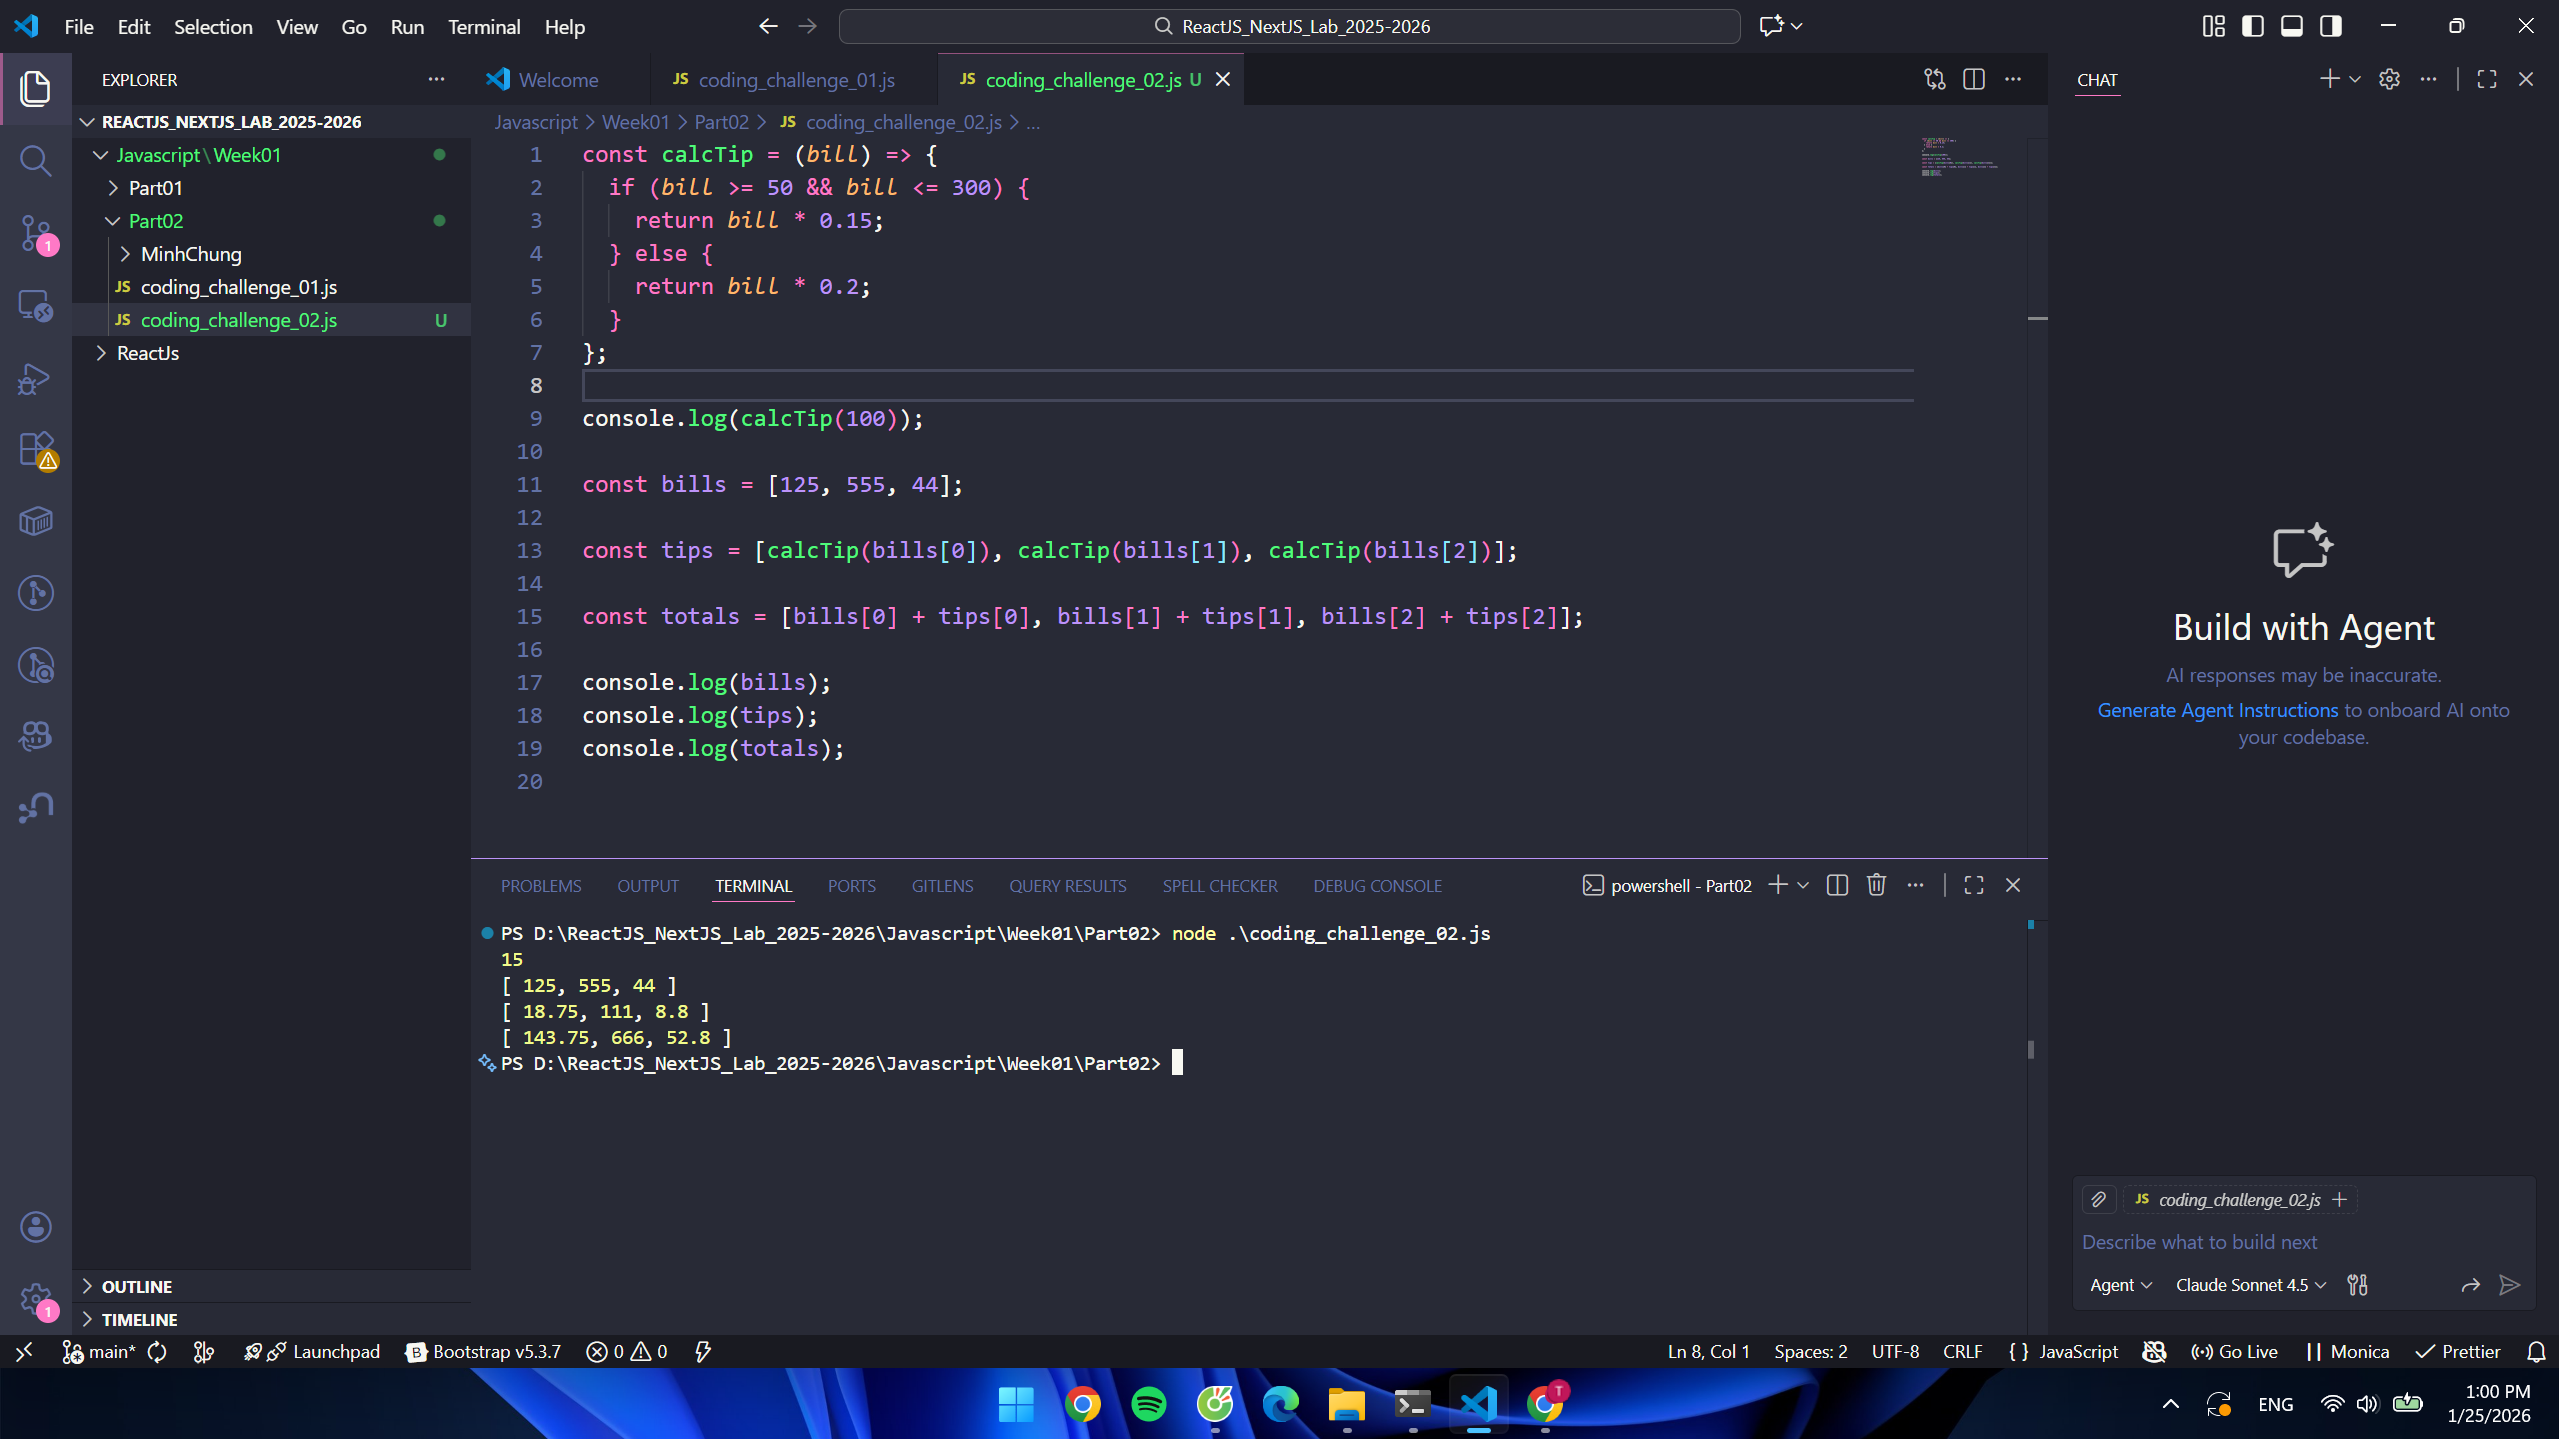
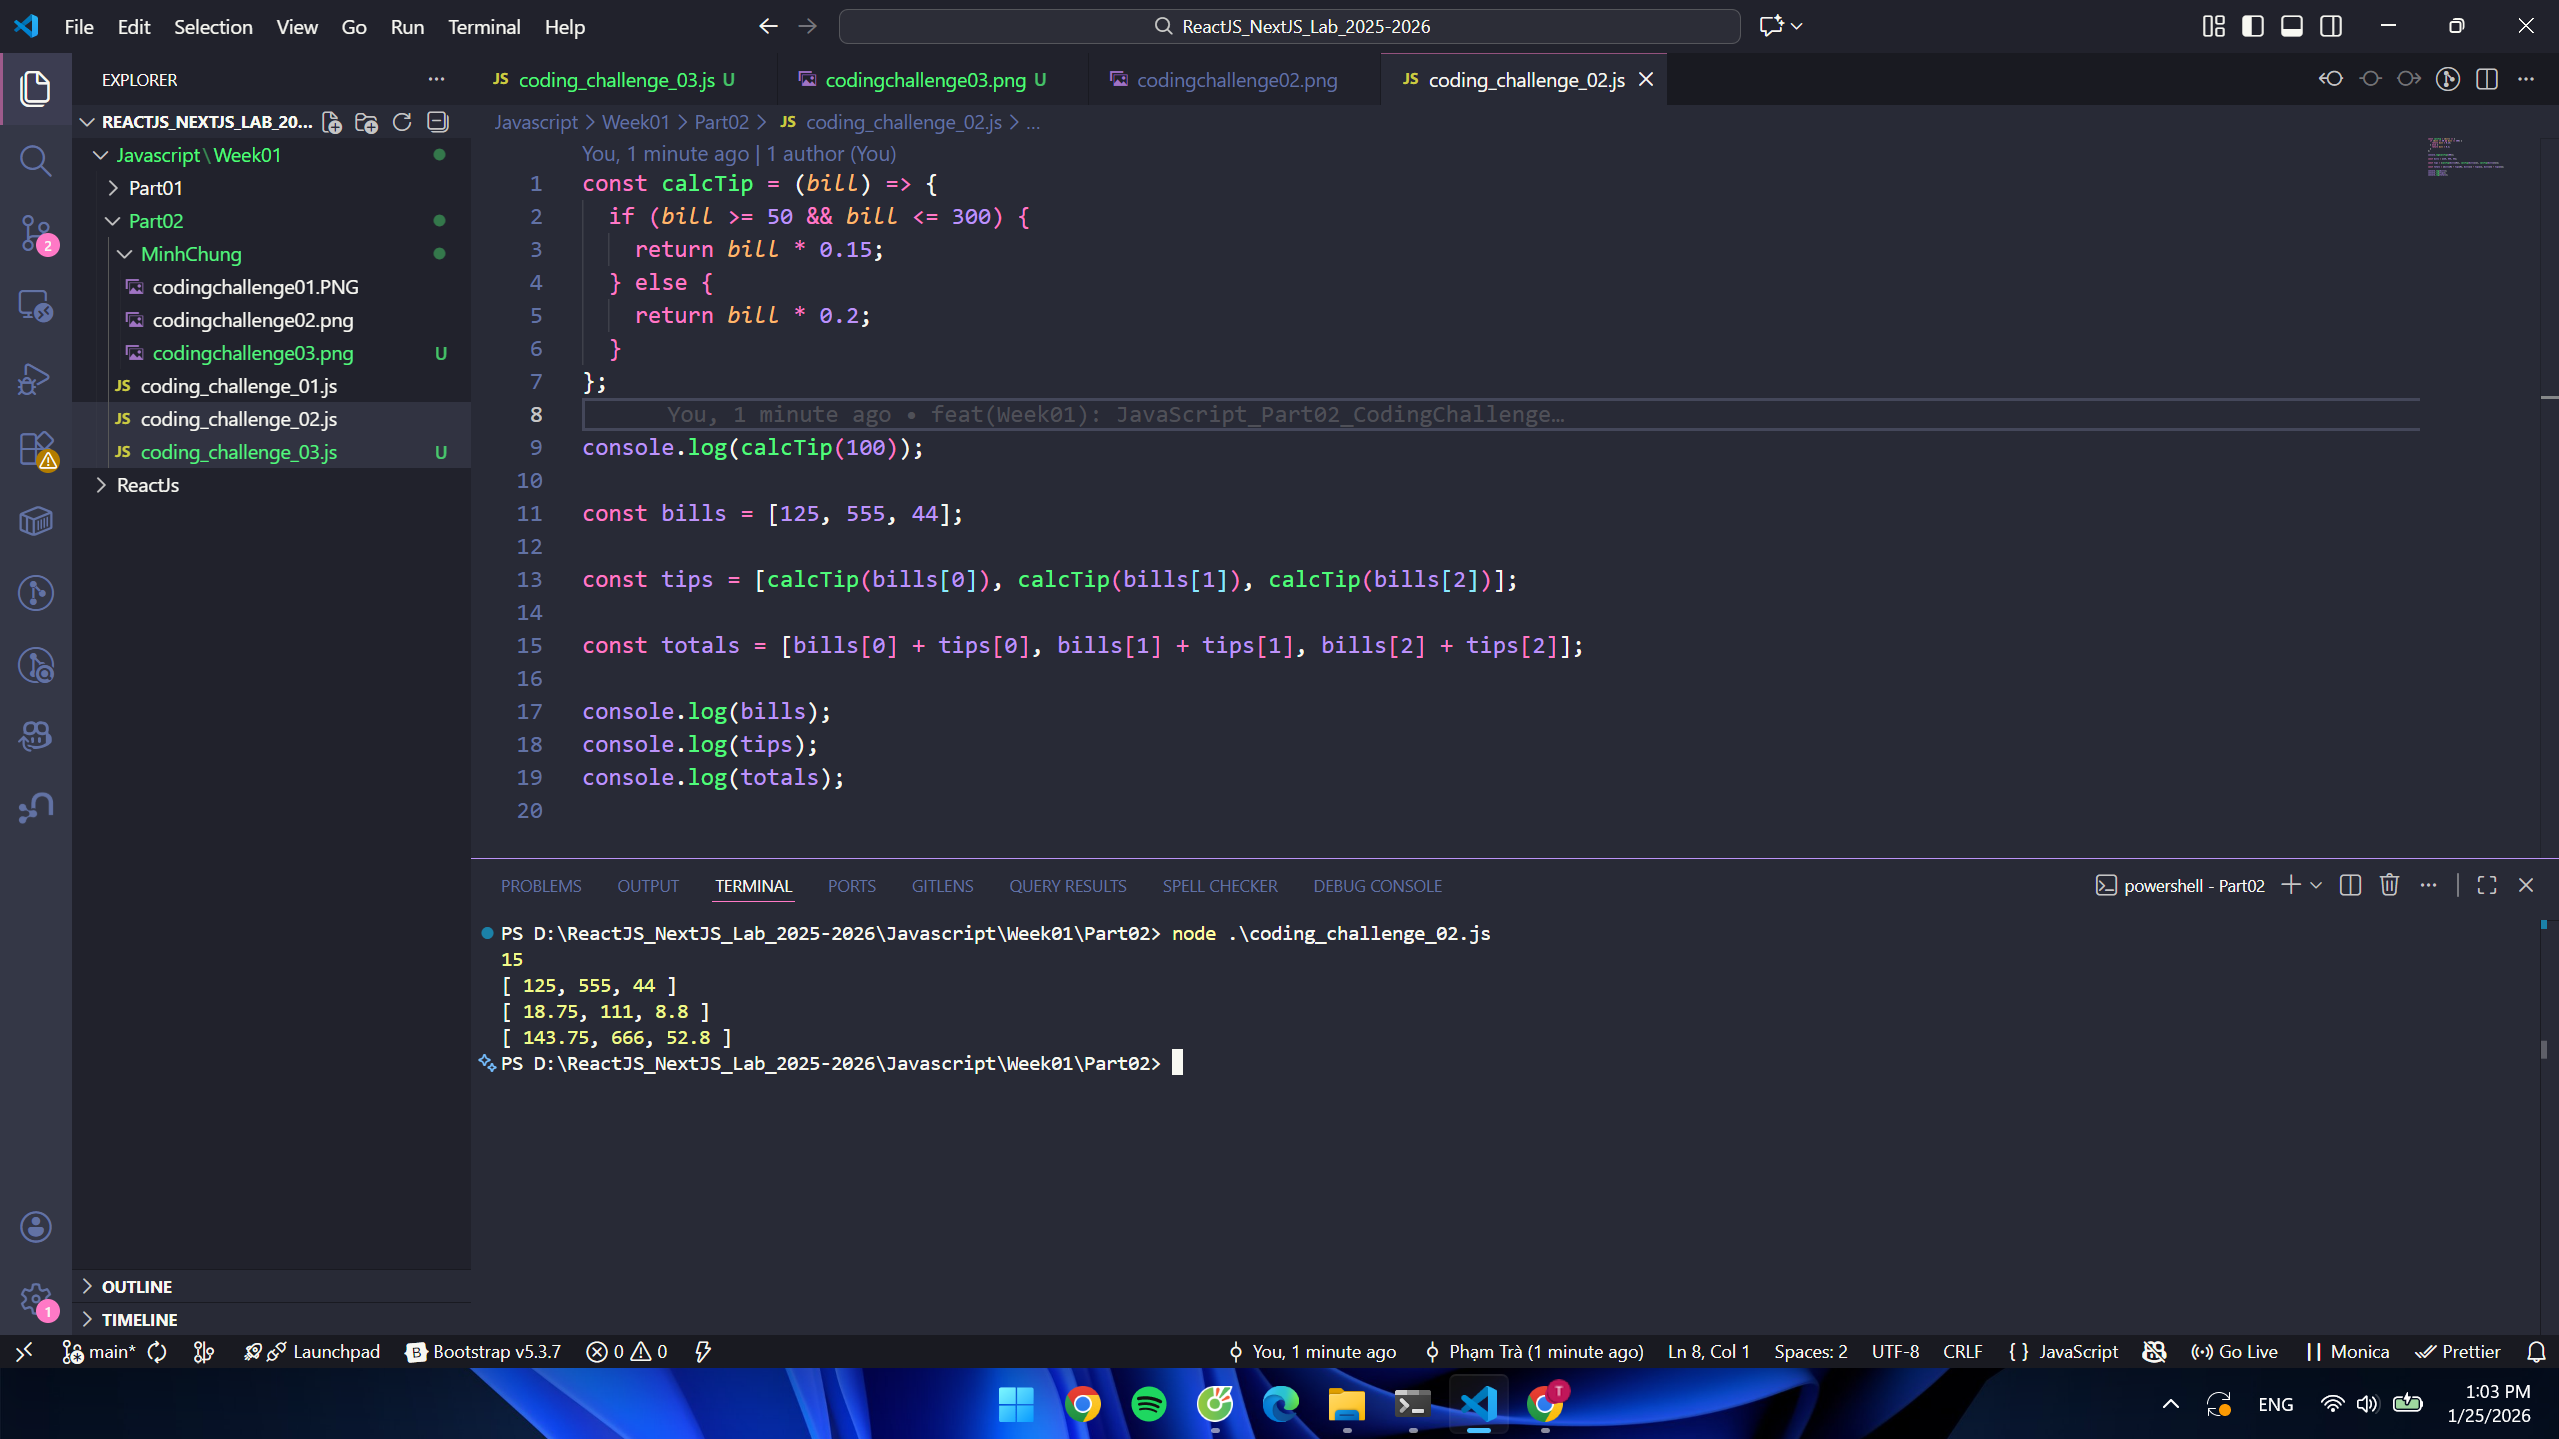
feat(Week01): JavaScript_Part02_CodingChallenge03

diff --git a/Javascript/Week01/Part02/coding_challenge_03.js b/Javascript/Week01/Part02/coding_challenge_03.js
@@ -1,0 +1,46 @@
+const mark = {
+  fullName: "Mark Miller",
+  mass: 78,
+  height: 1.69,
+  calcBMI: function () {
+    this.bmi = this.mass / (this.height * this.height);
+    return this.bmi;
+  },
+};
+
+const john = {
+  fullName: "John Smith",
+  mass: 92,
+  height: 1.95,
+  calcBMI: function () {
+    this.bmi = this.mass / (this.height * this.height);
+    return this.bmi;
+  },
+};
+
+mark.calcBMI();
+john.calcBMI();
+
+if (john.bmi > mark.bmi) {
+  console.log(
+    john.fullName +
+      "'s BMI (" +
+      john.bmi.toFixed(1) +
+      ") is higher than " +
+      mark.fullName +
+      "'s (" +
+      mark.bmi.toFixed(1) +
+      ")!"
+  );
+} else {
+  console.log(
+    mark.fullName +
+      "'s BMI (" +
+      mark.bmi.toFixed(1) +
+      ") is higher than " +
+      john.fullName +
+      "'s (" +
+      john.bmi.toFixed(1) +
+      ")!"
+  );
+}
